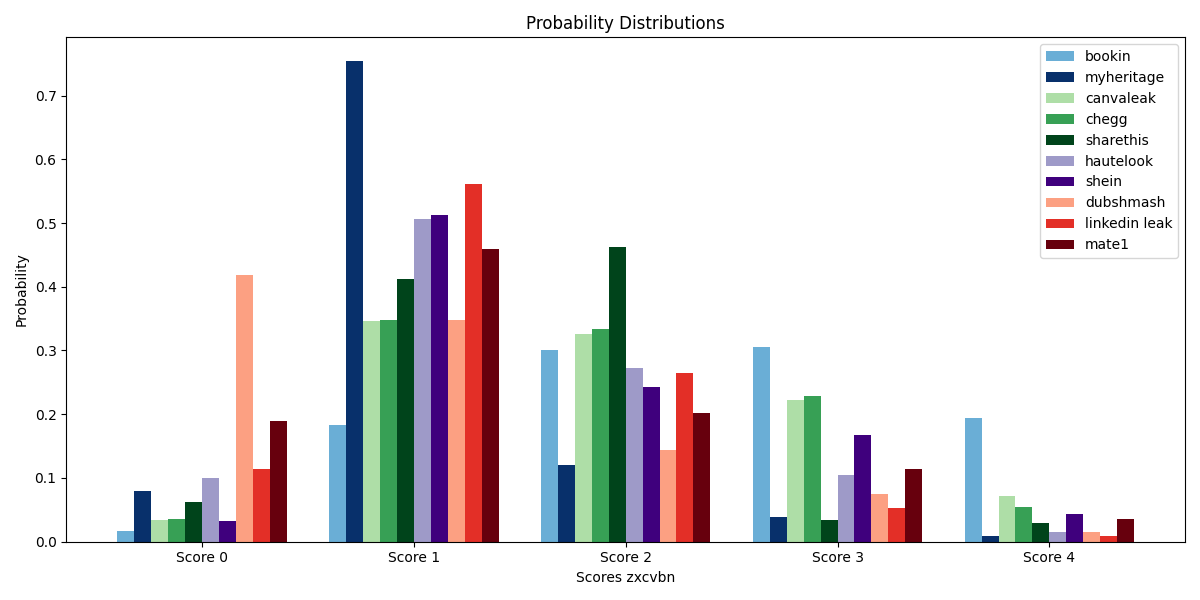
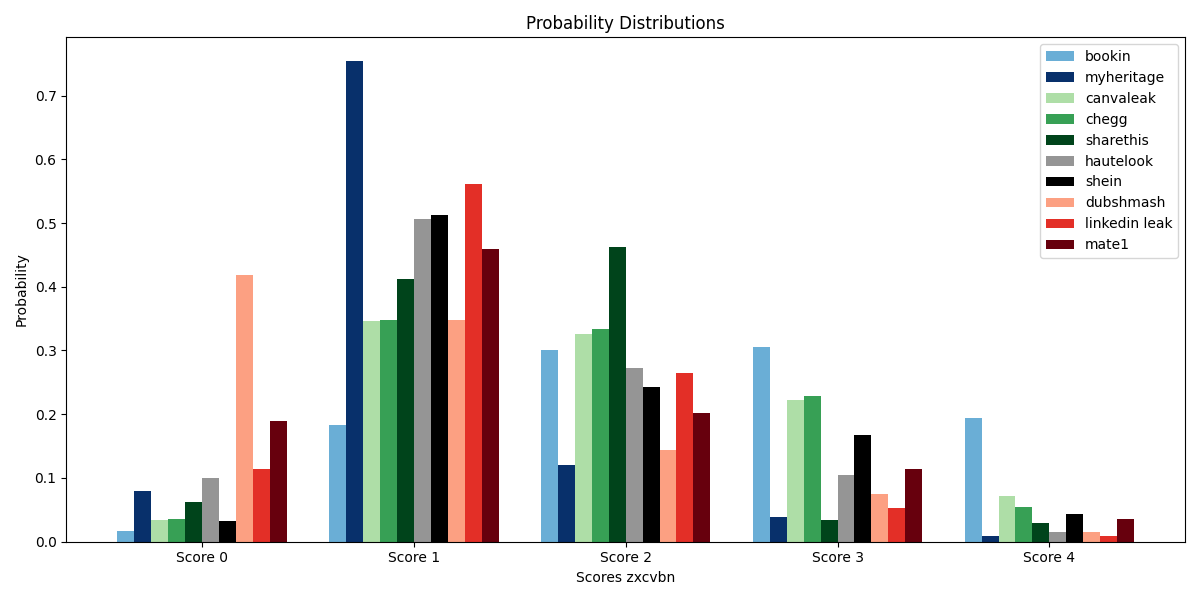
color adjustment

diff --git a/distribution_comparison.py b/distribution_comparison.py
@@ -147,16 +147,16 @@ def get_colors(leak_types):
     base_colors = {
         'business': plt.get_cmap('Blues'),
         'digitaltool': plt.get_cmap('Greens'),
-        'social': plt.get_cmap('Reds'),
-        'shopping': plt.get_cmap('Purples')
+        'shopping': plt.get_cmap('Greys'),
+        'social': plt.get_cmap('Reds')
     }
 
     # Dictionary to track the number of times a category appears
     category_count = {
         'business': 0,
         'digitaltool': 0,
-        'social': 0,
-        'shopping': 0
+        'shopping': 0,
+        'social': 0
     }
     
     colors = []
